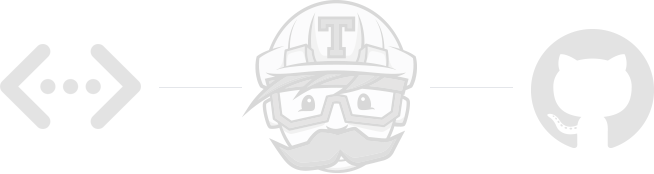
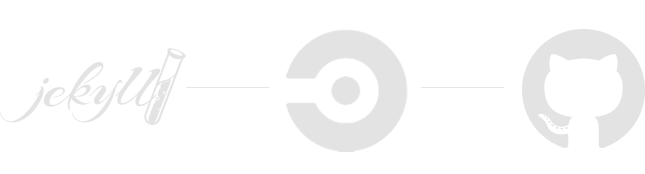
Update to circle

diff --git a/index.html b/index.html
@@ -54,7 +54,7 @@ description: "Kickster provides a basic Jekyll project setup packed with web bes
     <div class="grid grid-centered">
       <div class="grid-cell is-centered">
         <div class="section-image">
-          <img src="{% asset_path powered.png %}" alt="Powered by Travis CI and GitHub Pages">
+          <img src="{% asset_path powered.png %}" alt="Powered by Circle CI and GitHub Pages">
         </div>
       </div>
 
@@ -71,7 +71,7 @@ description: "Kickster provides a basic Jekyll project setup packed with web bes
         <div class="section-info">
           <h5>Automated testing</h5>
           <p>
-            Enable <a href="http://travisci.org" title="Travis CI" target="_blank">Travis CI</a> for your repository (optional) and push changes to your website safely. The included Travis CI config file tests if your jekyll build succeeds and checks if your HTML is valid with <a href="https://github.com/gjtorikian/html-proofer" title="HTML Proofer" target="_blank">HTML Proofer</a>.
+            Enable <a href="https://circleci.com/" title="Circle CI" target="_blank">Circle CI</a> for your repository (optional) and push changes to your website safely. The included Circle CI config file tests if your jekyll build succeeds and checks if your HTML is valid with <a href="https://github.com/gjtorikian/html-proofer" title="HTML Proofer" target="_blank">HTML Proofer</a>.
           </p>
         </div>
       </div>
@@ -80,7 +80,7 @@ description: "Kickster provides a basic Jekyll project setup packed with web bes
         <div class="section-info is-last">
           <h5>Automated deploys</h5>
           <p>
-            Kickster can be extended with automated deployment using <a href="http://travisci.org" title="Travis CI" target="_blank">Travis CI</a>. By executing <a href="https://github.com/nielsenramon/kickster#automated-deployment-with-travisci" title="3 simple steps" target="_blank">3 simple steps</a> your project will deploy automatically when changes are pushed to the <code>master</code> branch.
+            Kickster can be extended with automated deployment using <a href="https://circleci.com/" title="Circle CI" target="_blank">Circle CI</a>. By executing <a href="https://github.com/nielsenramon/kickster#automated-deployment-with-circle-ci" title="3 simple steps" target="_blank">3 simple steps</a> your project will deploy automatically when changes are pushed to the <code>master</code> branch.
           </p>
         </div>
       </div>
@@ -101,7 +101,7 @@ description: "Kickster provides a basic Jekyll project setup packed with web bes
           <a href="https://rubygems.org/gems/kickster" title="Rubygems page" target="_blank" class="button button-primary">
             Install Kickster
           </a>
-          <span>v1.0.2</span>
+          <span>v1.1.0</span>
         </div>
       </div>
     </div>
